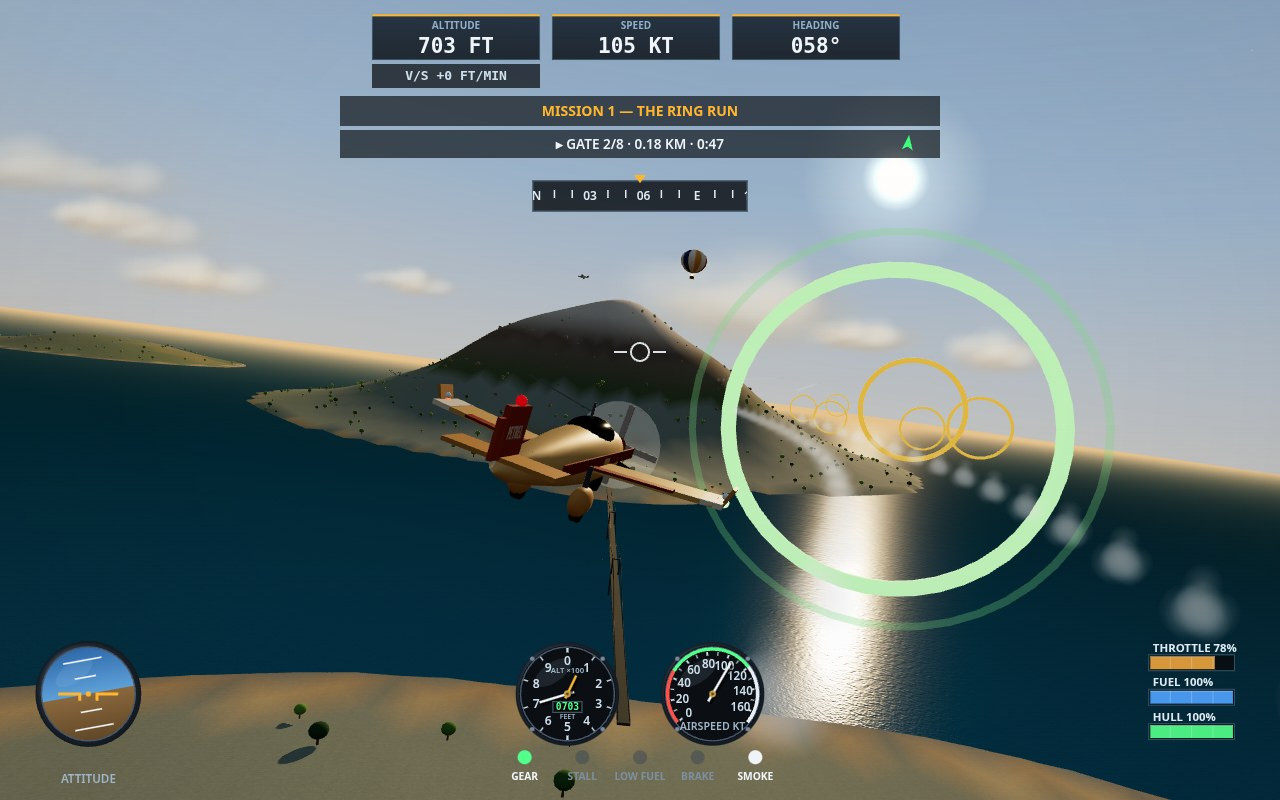
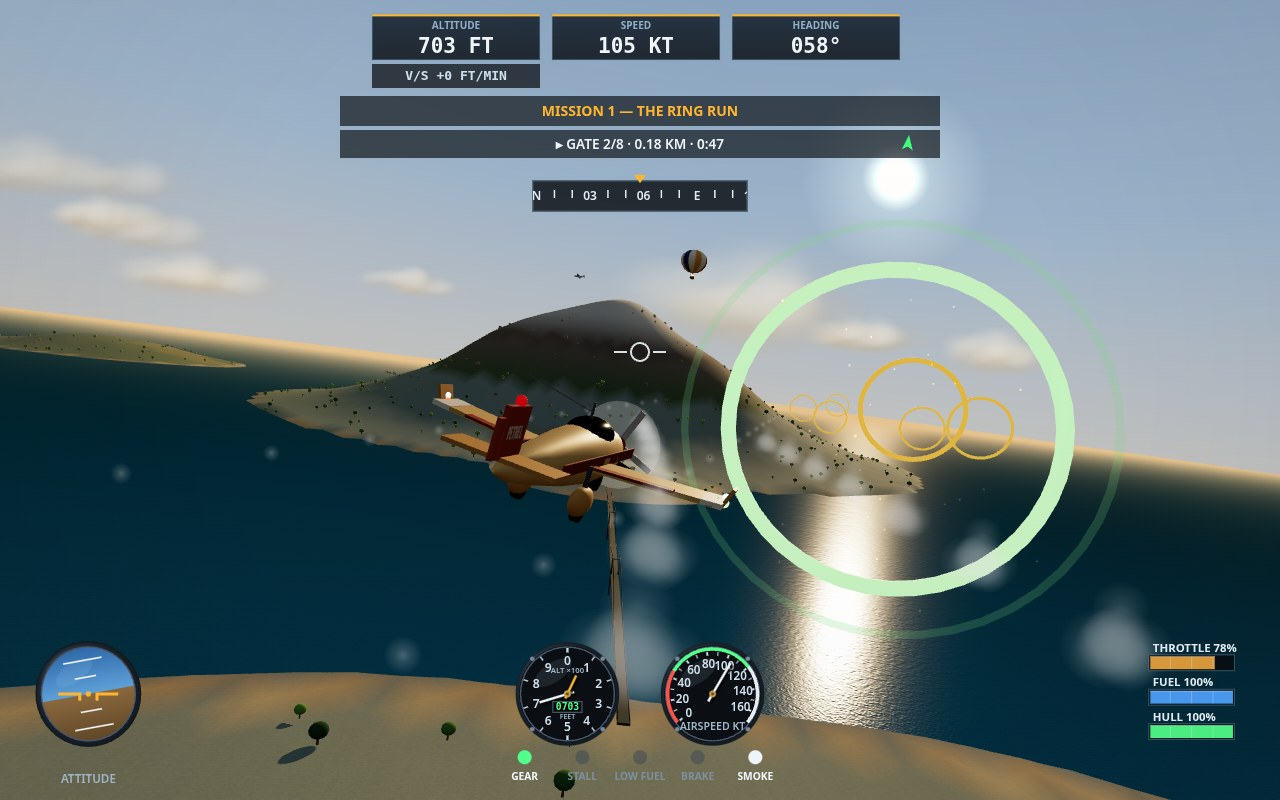
v16 scenic route: re-station the screenshots on one postcard loop — the mail-line cargo shot moves to the second strait gate, where the green hoop rings Mount Vela's shoulder and the banking Petrel shows her cargo pod against the snowy peak; cover (strait gate), approach (Porto Lume rooftop final) a

diff --git a/game/src/shots.js b/game/src/shots.js
@@ -4,13 +4,37 @@ import { PHASES, startSortie } from './game-state.js';
 
 export const SHOT_NAMES = ['cover', 'approach', 'cargo', 'finale'];
 
+// ------------------------------------------------------------------
+// The scenic route (v16): one loop a ferry pilot would fly purely
+// for the view, and the four stations where the camera waits on it.
+//   leg 1 — the strait gate: out of Meridian Field along the
+//     ring line, the Pilot Islet bridge sliding under the wing
+//     and the sun's glitter lane opening ahead (COVER).
+//   leg 2 — the mail line: the same strait flown the other way on
+//     the Porto Lume run, Mount Vela's snowy shoulder filling the
+//     sky ahead (CARGO, at the second gate).
+//   leg 3 — the waterfront final: down the harbour mouth and over
+//     the rooftops of Porto Lume to Strip 36 (APPROACH).
+//   leg 4 — the valley return: the ring run complete, home down
+//     the Meridian Field valley on short final (FINALE).
+// Every pose sits on its mission's real line, so the banner, the
+// cue and the dials all read true from the pose itself.
+
+const SCENIC = {
+  cargoGate: 1, // mission-1 ring the cargo station flies at
+};
+
 export function applyShotScene(game, name) {
   game.shotCam = null;
   game.juiceSeed = null;
   const QUARTER = { side: 6.5, up: 2.4, aim: 42, back: 17, aimSide: -10 };
-  const QUARTER_PORT = { side: -5.0, up: 3.3, aim: 40 };
+  const QUARTER_PORT = { side: -6.5, up: 3.3, aim: 46 };
   const QUARTER_FINALE = { side: 5.5, up: 2.8, aim: 34, back: 15, aimSide: -5 };
   if (name === 'approach') {
+    // Leg 3: the waterfront final over the rooftops of Porto Lume.
+    // (v16 scouting tried starting further out; the town shrank to
+    // a model village and the strip lost its read — the closer
+    // v15 framing stands.)
     startSortie(game, 1);
     const plane = game.plane;
     plane.x = 2500; plane.z = 3050; plane.y = 128;
@@ -20,16 +44,30 @@ export function applyShotScene(game, name) {
     plane.pitch = -0.06;
     game.cameraMode = 'cockpit';
   } else if (name === 'cargo') {
+    // Leg 2: at the second mail gate, Vela ahead, the bridge astarboard.
     startSortie(game, 1);
     const plane = game.plane;
-    plane.x = 1960; plane.z = 1980; plane.y = 210;
-    plane.heading = (38 * Math.PI) / 180;
+    const target = game.missionState.mission.rings[SCENIC.cargoGate];
+    const rad = (target.heading * Math.PI) / 180;
+    plane.x = target.x - Math.sin(rad) * 190;
+    plane.z = target.z + Math.cos(rad) * 190;
+    plane.y = target.y + 4;
+    plane.heading = ((target.heading + 3) * Math.PI) / 180;
     plane.speed = 52; plane.throttle = 0.72;
-    plane.roll = 0.24; plane.onGround = false;
+    plane.roll = 0.2; plane.onGround = false;
     game.juiceSeed = 'cargo';
+    game.missionState.mission.rings[0].passed = true;
+    game.missionState.ringsPassed = 1;
+    game.missionState.elapsed = 64;
     game.cameraMode = 'chase';
     game.shotCam = QUARTER_PORT;
   } else if (name === 'finale') {
+    // Leg 4: the valley return — the ring run complete, home down
+    // the Meridian Field valley on short final. (v16 scouting flew
+    // the Gull Rock lighthouse pass instead: from every workable
+    // station the tower read as a speck over empty sea, and the
+    // valley's leading lines beat it outright — this framing,
+    // the v15 one, stands.)
     startSortie(game, 0);
     const plane = game.plane;
     plane.x = -300; plane.z = 1700; plane.y = 37;
@@ -43,6 +81,13 @@ export function applyShotScene(game, name) {
     game.cameraMode = 'chase';
     game.shotCam = QUARTER_FINALE;
   } else {
+    // Leg 1: the strait gate — the second gate of the ring run,
+    // the bridge pylon sliding under the wing, the glitter lane
+    // and the balloon ahead. (v16 scouting flew two challengers:
+    // the third-gate station, which pushed the balloon out of
+    // the top of the frame, and a low bridge reach, which lost
+    // the green gate altogether and still only saw the span from
+    // above. Neither beat this frame, so it stands.)
     startSortie(game, 0);
     const plane = game.plane;
     const target = game.missionState.mission.rings[1];
